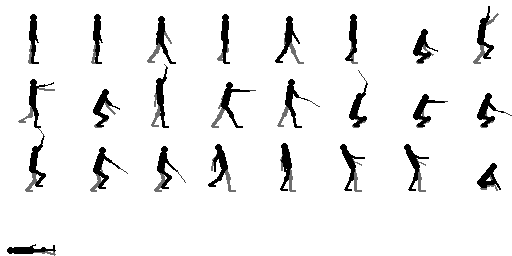
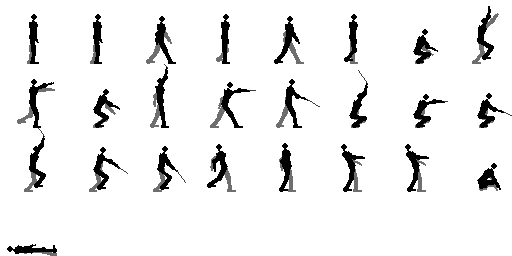
de-penis the charcter

diff --git a/Workshop/games/VaniaGraybox/tools/make_hero.py b/Workshop/games/VaniaGraybox/tools/make_hero.py
@@ -32,7 +32,7 @@ V = {
     "upperLeg": 0.25, "lowerLeg": 0.25, "foot": 0.1666,
 }
 L = {k: v * HERO_H for k, v in V.items()}
-THICK = {"torso": 7, "upperLeg": 4, "lowerLeg": 3, "upperArm": 3, "forearm": 2}
+THICK = {"torso": 7, "upperLeg": 5, "lowerLeg": 4, "upperArm": 4, "forearm": 3}
 
 NEAR, FAR, SWORD = (0, 0, 0, 255), (110, 110, 110, 255), (60, 60, 60, 255)
 
@@ -85,7 +85,7 @@ def solve(pose):
     up = 180 - pose["lean"]                    # torso points up, tilted forward by lean
     sternum = at(hip, up, L["torso"])
     chin = at(sternum, up, L["neck"])
-    head_c = at(chin, up, L["head"] / 2)
+    head_c = at(chin, up, L["head"] / 2); head_c = (head_c[0] + 1.0, head_c[1])
     bones = []
     def leg(h, k, col, layer):
         knee = at(hip, h, L["upperLeg"]); ankle = at(knee, h - k, L["lowerLeg"])
@@ -96,15 +96,17 @@ def solve(pose):
     def arm(s, e, col, layer, sword=None):
         elbow = at(sternum, s, L["upperArm"]); wrist = at(elbow, s + e, L["forearm"])
         hand = at(wrist, s + e, L["hand"] * 0.6)
-        bones.extend([(layer, sternum, elbow, THICK["upperArm"], col),
+        sh = at(sternum, 0, 2.0)               # shoulder sits just under the neck line
+        bones.extend([(layer, sh, sh, 6, col), (layer, sh, elbow, THICK["upperArm"], col),
                        (layer, elbow, wrist, THICK["forearm"], col),
                        (layer, wrist, hand, 2, col)])
         if sword is not None:
             tip = at(hand, s + e + sword, HERO_H * 0.32)   # sword: blade angle off the forearm, 0 = straight on
             bones.append((3, hand, tip, 1, SWORD))
     leg(pose["fh"], pose["fk"], FAR, 0); arm(pose["fs"], pose["fe"], FAR, 0)
-    bones.append((1, hip, sternum, THICK["torso"], NEAR))
-    bones.append((1, sternum, chin, 3, NEAR))
+    # torso as a tapered body (not a tube): hips, narrow waist, deep chest pushed forward, thin neck
+    bones.append((1, hip, sternum, None, NEAR))
+    bones.append((1, sternum, chin, 2, NEAR))
     leg(pose["nh"], pose["nk"], NEAR, 2); arm(pose["ns"], pose["ne"], NEAR, 2, pose["sword"])
     if pose["roll"]:
         r = math.radians(pose["roll"]); c, s_ = math.cos(r), math.sin(r)
@@ -116,7 +118,7 @@ def solve(pose):
 # --- adapter: draw a pose into a cell -------------------------------------------------
 def draw_pose(pose):
     bones, head_c = solve(pose)
-    r = L["head"] / 2
+    r = L["head"] / 2 - 0.6           # head reads smaller than the shoulders
     pts = [q for _, a, b, *_ in bones for q in (a, b)] + [(head_c[0], head_c[1] + r)]
     low = max(q[1] for q in pts)               # lowest point lands on the pivot row
     xs = [q[0] for q in pts]; mid = (min(xs) + max(xs)) / 2 if pose["roll"] else 0.0
@@ -126,6 +128,16 @@ def draw_pose(pose):
     for layer in (0, 1, 2, 3):
         for l, a, b, t, col in bones:
             if l != layer: continue
+            if t is None:                      # tapered torso
+                Lt = math.dist(a, b); ax, ay = (b[0] - a[0]) / Lt, (b[1] - a[1]) / Lt
+                nx, ny = -ay, ax                # forward side of the torso
+                prof = [(0.0, 3.4, 3.4), (0.42, 2.6, 2.4), (0.8, 3.6, 4.6), (1.0, 3.6, 3.0)]  # (t, back, front)
+                front, back = [], []
+                for tt, bk, fr in prof:
+                    cx, cy = a[0] + ax * Lt * tt, a[1] + ay * Lt * tt
+                    front.append(T((cx + nx * fr, cy + ny * fr))); back.append(T((cx - nx * bk, cy - ny * bk)))
+                d.polygon(front + back[::-1], fill=NEAR)
+                continue
             d.line([T(a), T(b)], fill=col, width=t)
             for q in (a, b):
                 x, y = T(q); h = t // 2
